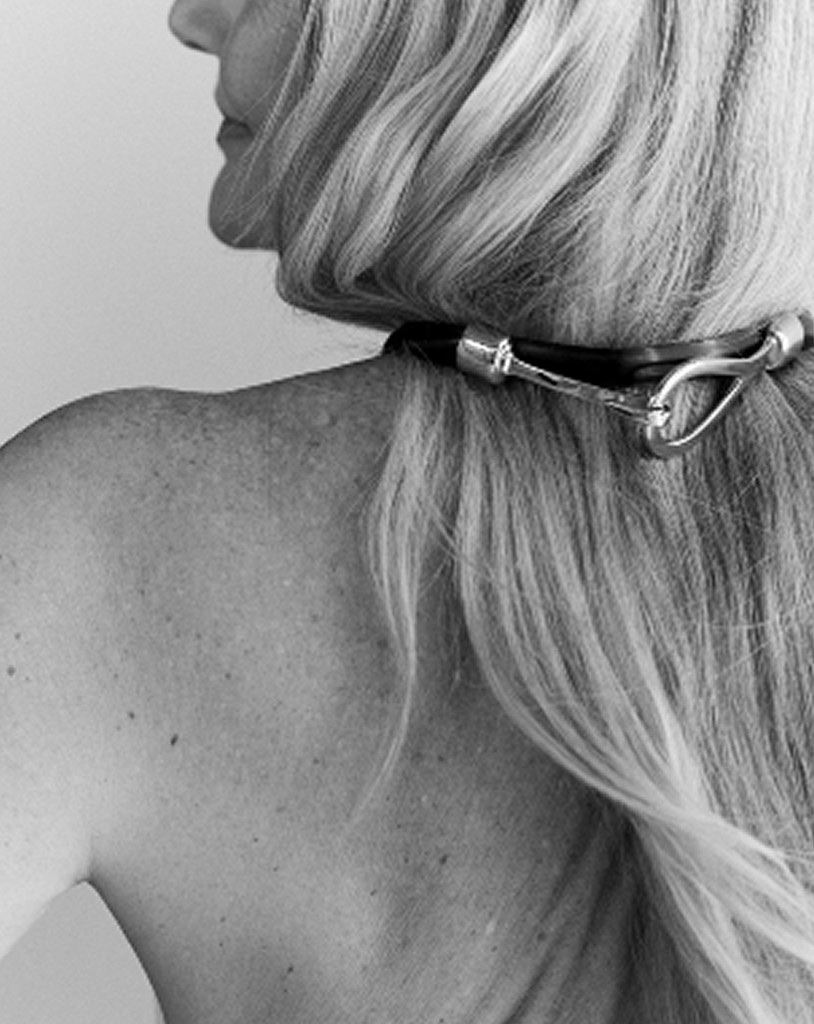
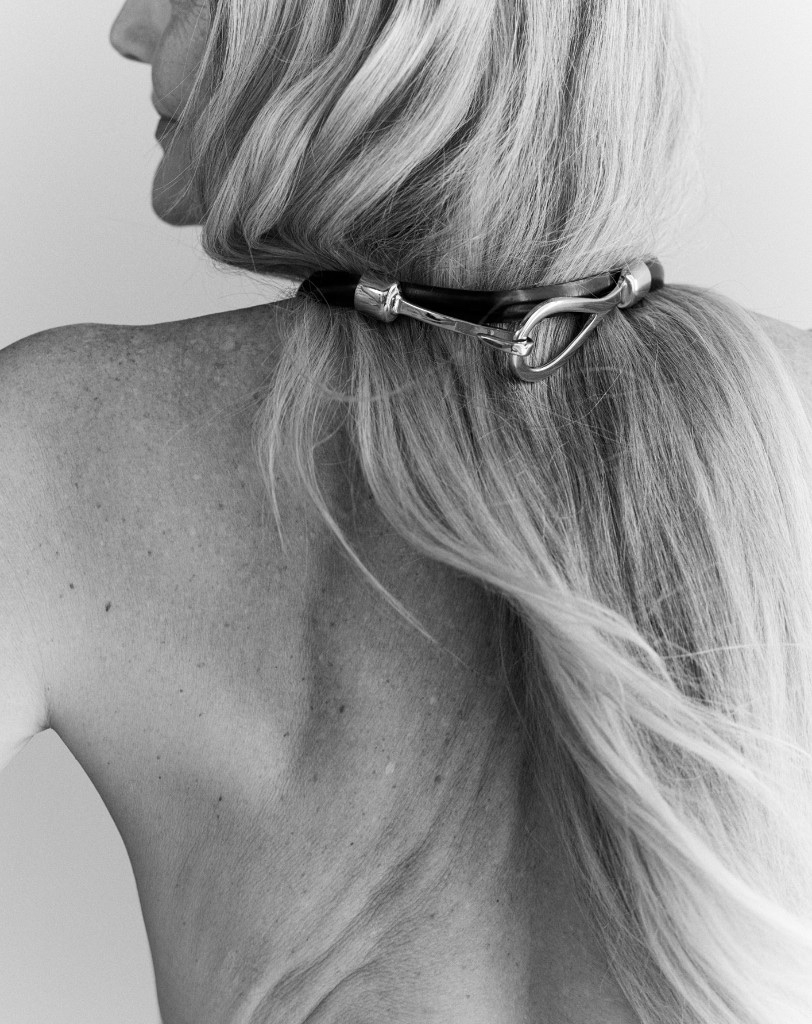
Remove the password gate and update the hero photo.

diff --git a/index.html b/index.html
@@ -4,13 +4,6 @@
   <meta charset="UTF-8">
   <meta name="viewport" content="width=device-width, initial-scale=1.0">
   <title>Vera</title>
-  <script>
-    try {
-      if (sessionStorage.getItem("vera-access") === "1") {
-        document.documentElement.classList.add("is-open");
-      }
-    } catch (e) {}
-  </script>
   <style>
     @font-face {
       font-family: "Century Schoolbook Monospace";
@@ -201,68 +194,6 @@
       display: none;
     }
 
-    html:not(.is-open) .page {
-      display: none;
-    }
-
-    html.is-open .gate {
-      display: none;
-    }
-
-    .gate {
-      display: grid;
-      place-items: center;
-      min-height: 100vh;
-      min-height: 100dvh;
-      padding: var(--pad);
-      background: var(--white);
-    }
-
-    .gate form {
-      width: min(100%, 20rem);
-    }
-
-    .gate-row {
-      display: grid;
-      grid-template-columns: 1fr auto;
-      align-items: end;
-      column-gap: 0.85rem;
-      border-bottom: 1px solid var(--black);
-      padding-bottom: 0.4rem;
-    }
-
-    .gate-row input {
-      width: 100%;
-      border: 0;
-      outline: 0;
-      background: transparent;
-      font: inherit;
-      font-size: var(--type);
-      letter-spacing: var(--tracking);
-      text-transform: none;
-      color: var(--black);
-      padding: 0;
-      line-height: 1.2;
-      min-width: 0;
-      caret-color: var(--black);
-    }
-
-    .gate-row input::placeholder {
-      color: var(--black);
-      opacity: 1;
-      text-transform: uppercase;
-      letter-spacing: var(--tracking);
-    }
-
-    .gate-row input:focus::placeholder {
-      color: transparent;
-    }
-
-    .gate-row input.is-error::placeholder,
-    .gate-row input.is-error:focus::placeholder {
-      color: var(--black);
-    }
-
     .brand-foot--form {
       position: absolute;
       left: var(--pad);
@@ -381,7 +312,7 @@
         width: 100%;
         min-height: 0;
         height: auto;
-        aspect-ratio: 814 / 1024;
+        aspect-ratio: 812 / 1024;
         overflow: hidden;
         background: #1a1a1a;
       }
@@ -393,17 +324,6 @@
 
       .brand-foot--form {
         display: none;
-      }
-
-      .gate-row,
-      .gate-row input,
-      .gate-row .enter-btn {
-        font-size: 16px;
-      }
-
-      .gate-row {
-        transform: scale(calc(11 / 16));
-        transform-origin: center center;
       }
 
       .brand-foot--visual {
@@ -438,24 +358,6 @@
   </style>
 </head>
 <body>
-  <div class="gate" id="gate">
-    <form id="gate-form" novalidate>
-      <div class="gate-row">
-        <input
-          id="gate-password"
-          type="password"
-          autocomplete="off"
-          autocapitalize="off"
-          spellcheck="false"
-          placeholder="Password"
-          required
-          aria-label="Password"
-        >
-        <button class="enter-btn" type="submit">{ Enter }</button>
-      </div>
-    </form>
-  </div>
-
   <div class="page">
     <div class="meta-time" id="clock">00:00</div>
 
@@ -512,46 +414,6 @@
   </div>
 
   <script>
-    (function () {
-      const PASSWORD = "vera123";
-      const gateForm = document.getElementById("gate-form");
-      const gateInput = document.getElementById("gate-password");
-
-      function unlock() {
-        sessionStorage.setItem("vera-access", "1");
-        document.documentElement.classList.add("is-open");
-      }
-
-      gateForm.addEventListener("submit", function (event) {
-        event.preventDefault();
-        const value = gateInput.value;
-        if (!value) {
-          gateInput.focus();
-          return;
-        }
-        if (value === PASSWORD) {
-          unlock();
-          return;
-        }
-
-        gateInput.value = "";
-        gateInput.placeholder = "Incorrect";
-        gateInput.classList.add("is-error");
-        gateInput.focus();
-      });
-
-      gateInput.addEventListener("input", function () {
-        if (gateInput.classList.contains("is-error")) {
-          gateInput.classList.remove("is-error");
-          gateInput.placeholder = "Password";
-        }
-      });
-
-      if (!document.documentElement.classList.contains("is-open")) {
-        gateInput.focus();
-      }
-    })();
-
     (function () {
       const form = document.getElementById("signup-form");
       const formTitle = document.getElementById("form-title");
